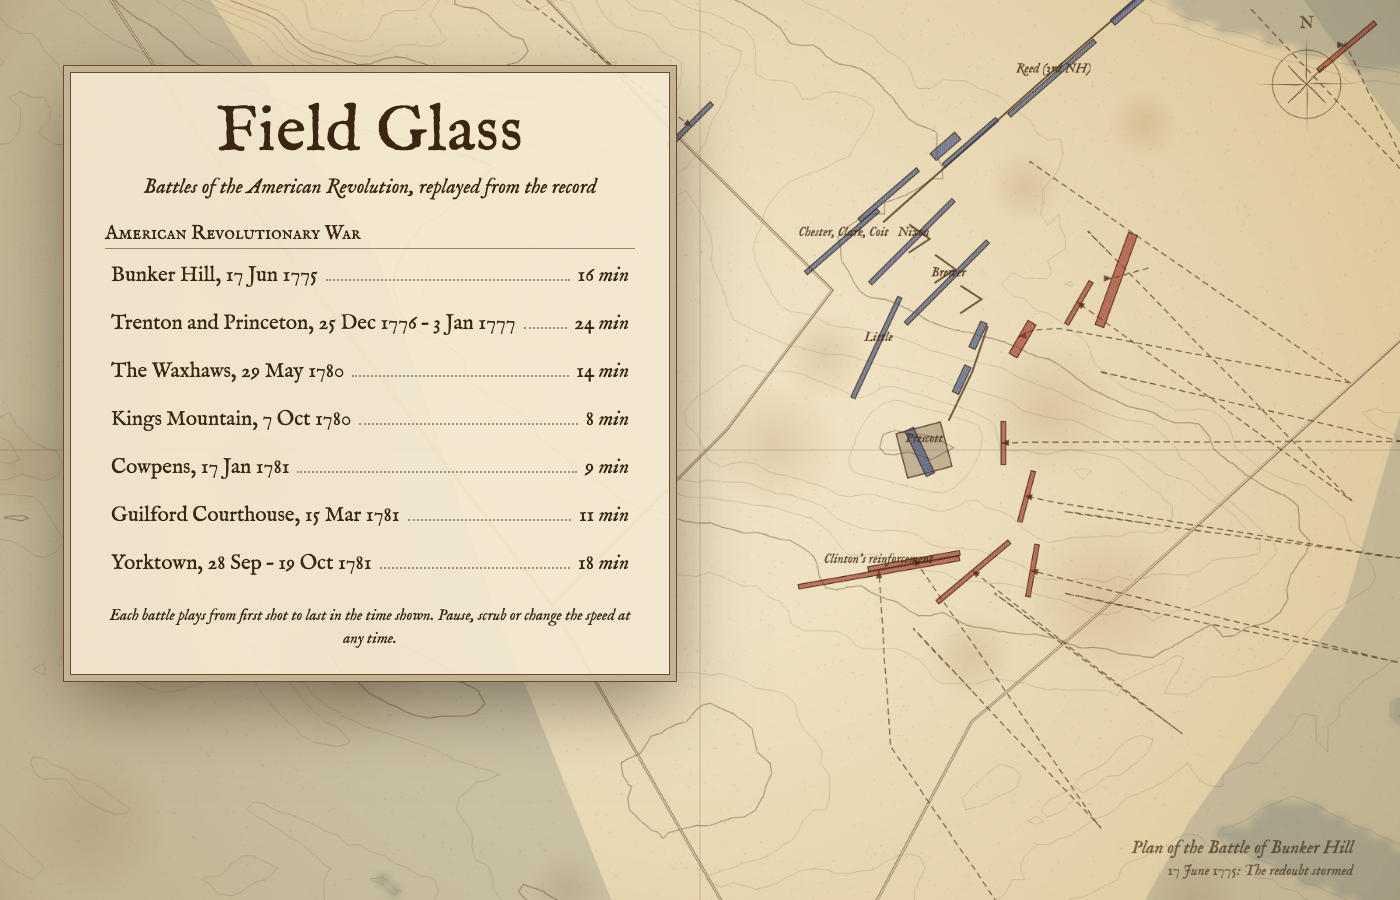
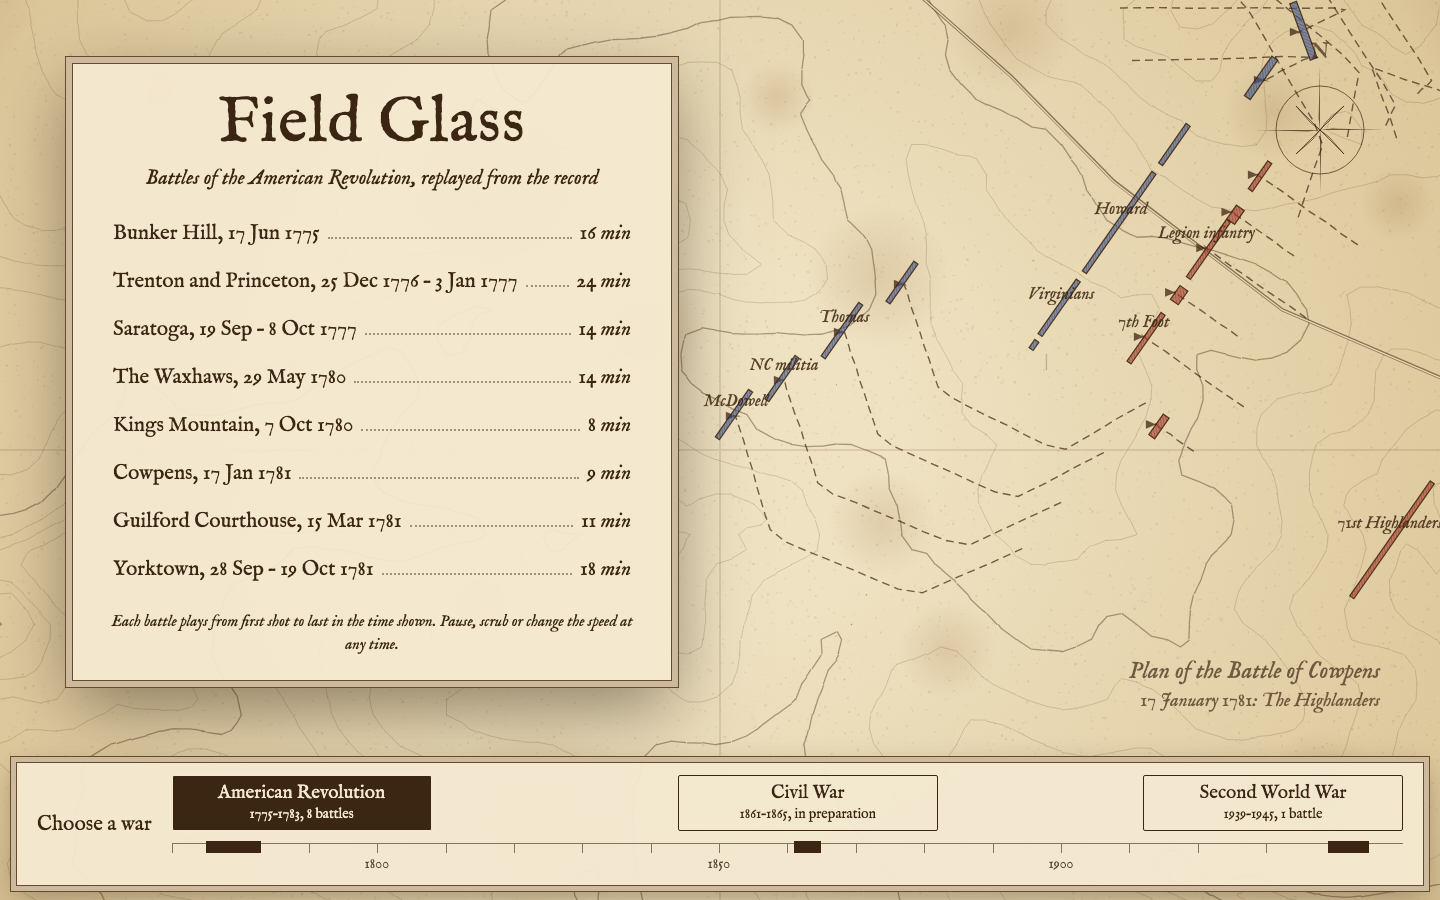
Document the per-war start screen: ADR-0005, README and a new screenshot
Claude-Session: https://claude.ai/code/session_01V2aUVgAwSLad8US96TPmHp

diff --git a/docs/adr/0005-start-screen-per-war-timeline.md b/docs/adr/0005-start-screen-per-war-timeline.md
@@ -1,0 +1,50 @@
+# ADR-0005: One start screen per war, chosen on a timeline
+
+**Status:** accepted, 2026-10-18
+
+## Context
+
+The start screen was one parchment card listing every battle under a heading per war, over a sepia plan of a random
+battle. With Sidi Bou Zid in, a Second World War battle sat under a Revolution card on a Revolution backdrop, and the
+Civil War, planned next, had no place at all. Each war's battles already wear their own skin (ADR-0002); the start
+screen did not.
+
+A prototype pass built three layouts over the same three wars, each war's card and backdrop in the dress of its maps:
+
+- **A, tabs on the card.** One tab per war along the card's top edge.
+- **B, three doors.** A first screen split into one panel per war; choosing one opens that war's card.
+- **C, a timeline.** The war's card over its backdrop, with the wars placed on a ruled scale of the years along the
+  foot, the battle screen's scrubber in miniature.
+
+## Decision
+
+- **One screen per war, chosen on a timeline of the years (C).** The screen shows one war: its card, in that war's
+  type and paper, over a backdrop drawn in its style. A bar along the foot rules 1770 to 1950 every ten years, marks
+  each war's span, and holds a button per war with its years and number of battles. On a phone the scale is dropped
+  and the three buttons sit in a row.
+- **Rejected: tabs on the card (A).** At 390 px the three tabs were cramped, and the unselected tabs, dimmed to read
+  as behind the card, read as disabled.
+- **Rejected: three doors (B).** It costs a click on every visit before any battle can be chosen.
+- **`WARS` in `splash.js` is the registry**, in date order: `{ id, name, years, from, to, war, draw(cv, o) }`. `war`
+  is the `battles/index.json` string, so a war's battles are the index entries that carry it. Ids match the skins in
+  `themes.js` where a war has one (`revolution`, `ww2`); the Civil War is `civil-war`. `npm run check` fails when a
+  battle names a war with no entry, since that battle would not be listed anywhere.
+- **The only state is the war on show, kept in the hash.** `#<war id>` opens the start screen on that war; choosing a
+  war replaces the hash rather than adding a history entry per click. A bare URL opens the Revolution. All battles
+  sets the hash to the battle's war, and any hash change that names something other than the battle on screen
+  reloads the page, so All battles, Back and Forward all land where the URL says.
+- **Backdrops.** The Revolution draws a random battle of its own as a sepia plan, at the chapter when both sides are
+  most engaged (a moment after one side broke read as a one-sided plan); `?plan=<id>` picks it. The Second World War
+  lays Sidi Bou Zid's recon mosaic under the lamp, with the skin's own counters and chinagraph arrows.
+- **A war with no battles shows an in-preparation card.** The Civil War, until its first battle, says its battles
+  are in preparation, offers the wars that have battles, and sits on a sample of the survey style: Guilford
+  Courthouse's ground drawn as a topographical engineer's sheet.
+
+## Consequences
+
+- Adding a war is one `WARS` entry, its backdrop function and a block of `#splash.war-<id>` CSS. Its first battle
+  in `battles/index.json` replaces the in-preparation card with a list.
+- The start screen loads the Civil War's and the Second World War's fonts with the Revolution's, whichever war is on
+  show.
+- Backdrops are drawn at the window's size in CSS pixels, once per war and size, and redrawn on resize. The
+  Second World War's builds the skin's whole layer the first time, about a second on a software rasteriser.

diff --git a/README.md b/README.md
@@ -6,11 +6,16 @@ that would change the outcome. Built for a laptop with integrated graphics.
 
 ![The start screen](docs/screenshots/start-screen.png)
 
-The start screen lists every battle with its running time and draws one of them, at random, as a sepia
-battle plan from its own terrain and troop positions. `npm run check` measures each running time by playing
-the battle through at the default settings (Follow and Time-lapse on, chapter speeds honoured) and writes it
-to `battles/index.json`. A link with a battle in it (`#cowpens`) skips the start screen; `?plan=yorktown`
-picks the backdrop.
+The start screen shows one war at a time, chosen on a timeline of the years along its foot. Each war's card
+lists its battles with their running times over a backdrop in the dress of its maps: a Revolution battle, picked
+at random, as a sepia plan; Sidi Bou Zid's recon mosaic under the operations-room lamp; and for the Civil War,
+which has no battles yet, an in-preparation card over Guilford Courthouse drawn as an engineer's survey.
+`npm run check` measures each running time by playing the battle through at the default settings (Follow and
+Time-lapse on, chapter speeds honoured), writes it to `battles/index.json`, and fails if a battle's `war` has
+no entry in `WARS` (`splash.js`). `#ww2` opens the start screen on a war (`revolution`, `civil-war`, `ww2`); a
+bare URL opens the Revolution. A link with a battle in it (`#cowpens`) skips the start screen, and All battles
+returns to that battle's war. `?plan=yorktown` picks the Revolution's backdrop. See
+[ADR-0005](docs/adr/0005-start-screen-per-war-timeline.md).
 
 ![Cowpens, the main line engaged](docs/screenshots/cowpens-main-line.jpg)
 ![Kings Mountain, the columns close round the ridge](docs/screenshots/kings-mountain-noose.jpg)
@@ -36,7 +41,7 @@ On claw-mini the launch agent `com.vauseware.battle-sim` serves this folder on 1
 
 ## Deploy
 
-`npm run deploy` copies the page, `app.js`, `sim.js`, the skins and each battle's `battle.json` and `terrain.json`
+`npm run deploy` copies the page, `app.js`, `sim.js`, `splash.js`, the skins and each battle's `battle.json` and `terrain.json`
 into `dist/` (`tools/build.sh`) and uploads it as the Worker `fieldglass`, served at https://fieldglass.vause.io/.
 The vause.io zone redirects only the bare domain and www to vauseware.com.
 
